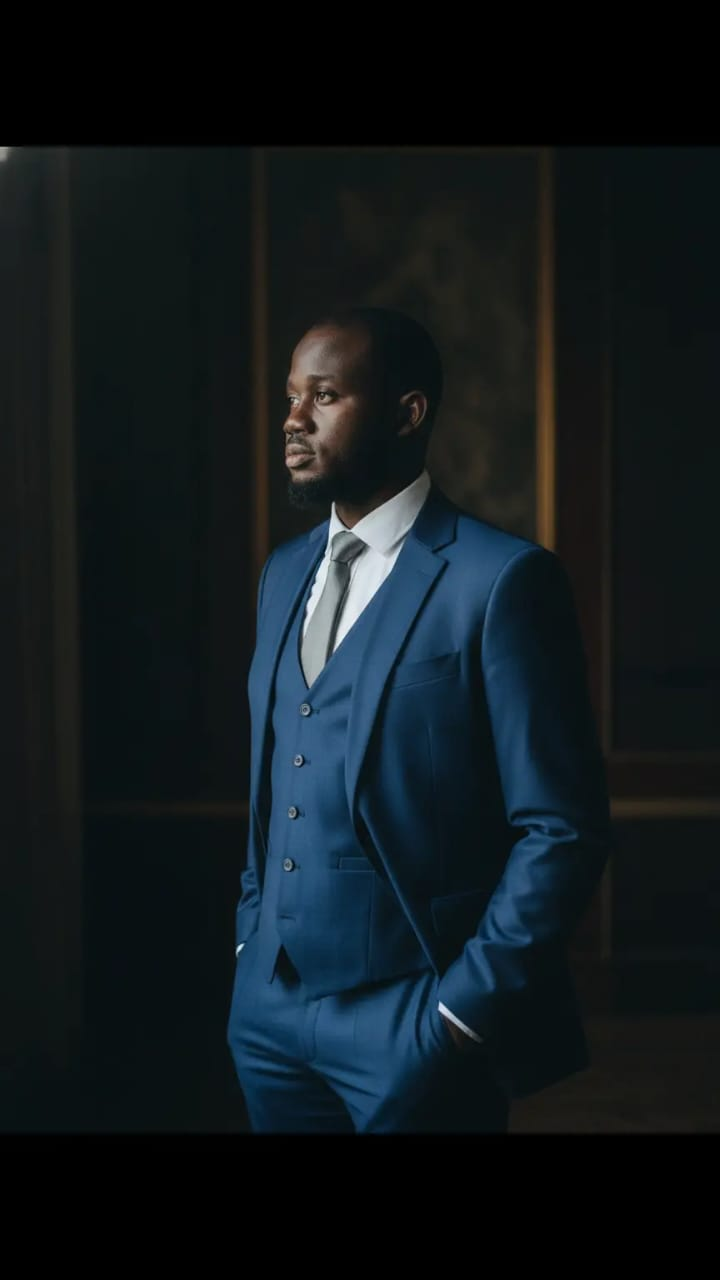
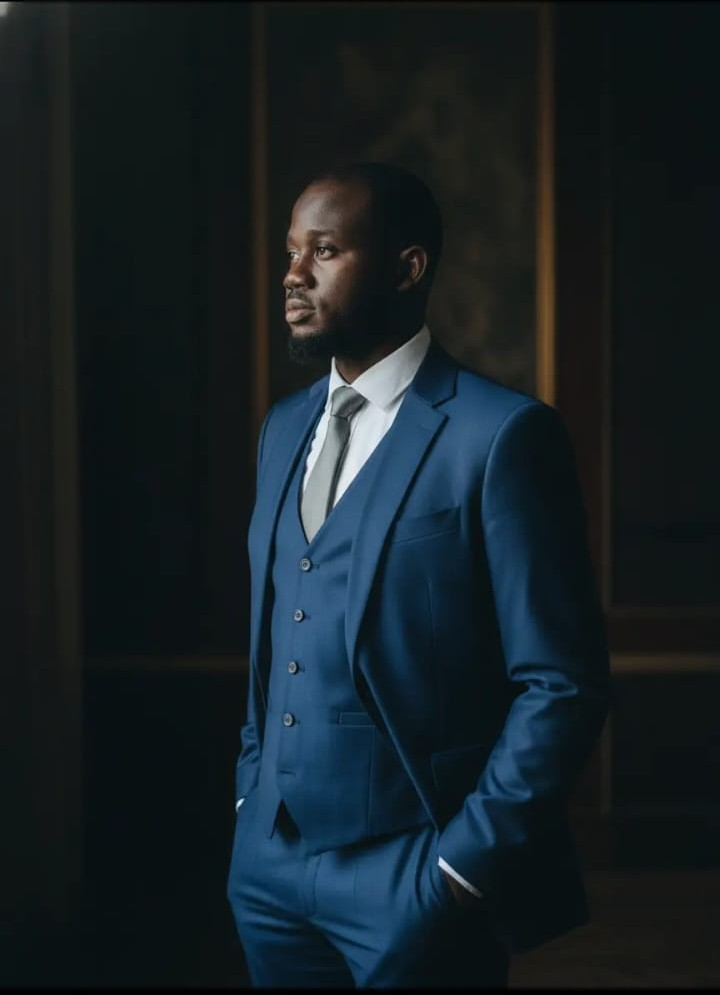
fix

diff --git a/css/styles.css b/css/styles.css
@@ -258,15 +258,16 @@ a {
 
 @keyframes floating {
   0% {
-    transform: translateX(0);
+    transform: translateY(0);
   }
   50% {
-    transform: translateX(-24px);
+    transform: translateY(-15px);
   }
   100% {
-    transform: translateX(0);
+    transform: translateY(0);
   }
 }
+
 
 /* expertise section starts */
 .heading small {
@@ -973,14 +974,16 @@ a:not(.btn):not(.nav-link):hover {
     display: flex;
     justify-content: center;
     align-items: center;
-    width: 340px;
-    height: 340px;
+    width: 320px;
+    height: 320px;
     margin: 0 auto;
     border-radius: 50%;
-    background: var(--primary-bg);
     position: relative;
-    box-shadow: 0 0 60px 0 rgba(0,0,0,0.5);
+    background: radial-gradient(circle, rgba(0, 224, 255, 0.2) 0%, transparent 70%);
+    box-shadow: 0 0 50px rgba(0, 0, 0, 0.3);
+    animation: floating 4s ease-in-out infinite;
 }
+
 .profile-image-ring {
     width: 320px;
     height: 320px;
@@ -992,12 +995,20 @@ a:not(.btn):not(.nav-link):hover {
     box-shadow: 0 0 0 12px rgba(255,255,255,0.10), inset 0 0 32px 2px rgba(0,0,0,0.18); /* outer and inner shadow for depth */
 }
 .profile-image-effect {
-    width: 260px;
-    height: 260px;
+    width: 280px;
+    height: 280px;
     object-fit: cover;
+    object-position: center 20%; /* Adjusted to center the head better in a tall image */
     border-radius: 50%;
-    filter: grayscale(100%);
-    /* box-shadow: 0 4px 32px rgba(0,0,0,0.4); */
-    background: transparent;
-    /* border: 4px solid rgba(255,255,255,0.12); */
+    filter: brightness(1.1) contrast(1.05); /* Enhanced color instead of grayscale */
+    transition: all 0.5s ease;
+    border: 4px solid var(--primary-cta);
+    box-shadow: 0 0 20px rgba(0, 224, 255, 0.3);
 }
+
+.profile-image-wrapper:hover .profile-image-effect {
+    transform: scale(1.05);
+    box-shadow: 0 0 30px var(--primary-cta);
+    filter: brightness(1.2);
+}
+

diff --git a/index.html b/index.html
@@ -38,7 +38,7 @@
     />
     <meta
       property="og:image"
-      content="https://habeeb-abdulsalam.vercel.app/assets/Profile.png"
+      content="https://habeeb-abdulsalam.vercel.app/assets/profile-img.jpeg"
     />
     <meta property="og:site_name" content="Habeeb Abdulsalam Portfolio" />
     <meta property="og:locale" content="en_US" />
@@ -59,7 +59,7 @@
     />
     <meta
       property="twitter:image"
-      content="https://habeeb-abdulsalam.vercel.app/assets/Profile.png"
+      content="https://habeeb-abdulsalam.vercel.app/assets/profile-img.jpeg"
     />
 
     <!-- Additional SEO Meta Tags -->
@@ -261,12 +261,14 @@
             class="col-11 col-sm-10 col-md-4 text-center animate__animated animate__fadeInRight"
           >
             <div class="profile-image-wrapper">
-              <img
-                loading="lazy"
-                src="/assets/profile-img.jpeg"
-                class="img-fluid rounded profile-image-effect"
-                alt="Profile Image"
-              />
+              <div class="profile-image-ring">
+                <img
+                  loading="lazy"
+                  src="/assets/profile-img.jpeg"
+                  class="img-fluid profile-image-effect"
+                  alt="Habeeb Abdulsalam Profile"
+                />
+              </div>
             </div>
           </div>
         </div>
